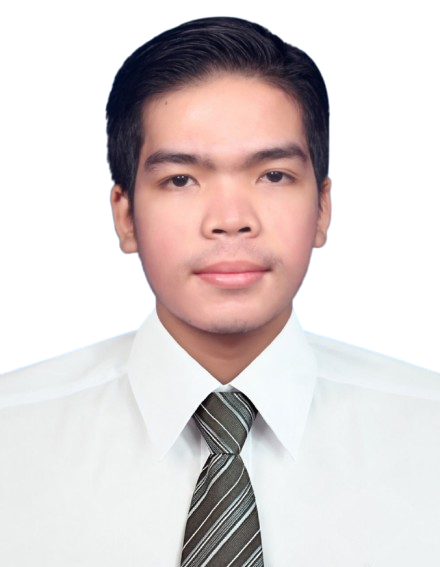
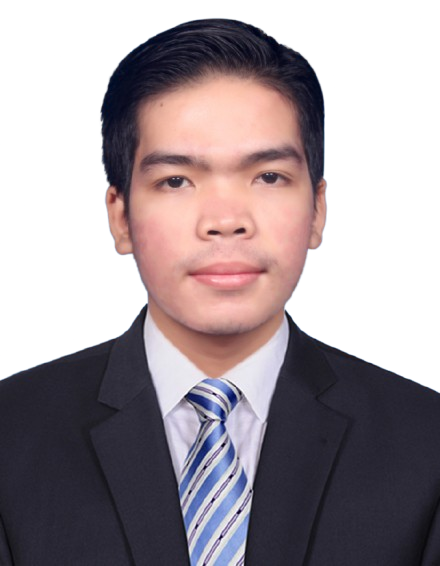
improve image

diff --git a/src/components/Hero.tsx b/src/components/Hero.tsx
@@ -1,4 +1,5 @@
 import profilePic from "/RatanaIMG.png";
+import RatanaPic from "/Ratana.jpg";
 import { skills } from "../db/data";
 import Icon from "./Icon";
 import { useEffect, useRef } from "react";
@@ -28,8 +29,8 @@ const Hero = () => {
       <div className="grid grid-cols-1 md:grid-cols-2 gap-8 items-center">
         {/* Photo Column  */}
         <div className="order-1 md:order-2 flex justify-center md:justify-end">
-          <div className="relative w-48 h-48 md:w-64 md:h-64 rounded-full overflow-hidden  ">
-            <img src={profilePic} alt="photo" />
+          <div className="relative w-48 h-60 md:w-64 md:h-64 overflow-hidden border  rounded-2xl py-2">
+            <img src={profilePic} alt="photo" className=""/>
           </div>
         </div>
 
